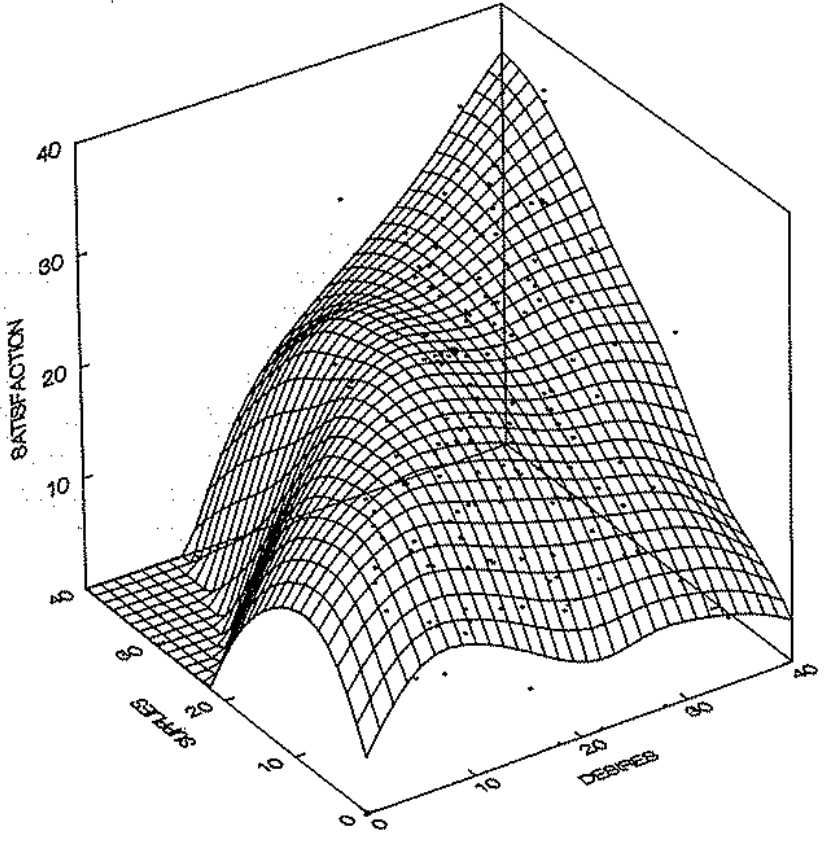
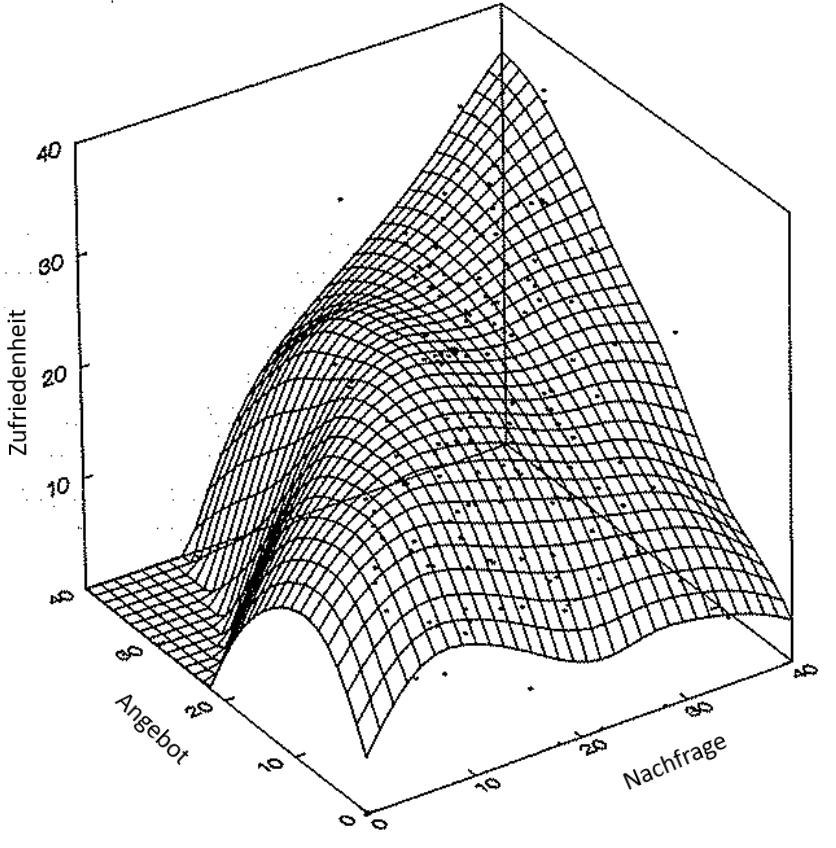
Kapitel 2 finalisiert

Changed region(s): [[0.6842, 0.8585, 0.8708, 0.9505], [0.1244, 0.8278, 0.2488, 0.8892], [0.0, 0.3679, 0.0311, 0.5519]]

diff --git a/chapters/personEnvironmentFit.tex b/chapters/personEnvironmentFit.tex
@@ -68,28 +68,17 @@ Wie in Abbildung \ref{fig:personEnvironmentFit:subjektivObjektiv:abb1} dargestel
 
 \begin{figure}[h]
 	\centering
-	\includegraphics[width=1\textwidth]{gfx/subjektivObjektivPEFit.jpg}
+	\includegraphics[width=0.9\textwidth]{gfx/subjektivObjektivPEFit.jpg}
 	\caption[Objektiver und subjektiver \acs{PEFit}]{Objektiver und subjektiver \acs{PEFit}\\
 		(Eigene Darstellung in Anlehnung an \cite[S. 22]{edwards:2008})}
 	\label{fig:personEnvironmentFit:subjektivObjektiv:abb1}
 \end{figure}
 
-% 4 Subjekte farbig markieren
-Die Forscher betonten die Wichtigkeit, die vier in Abbildung \ref{fig:personEnvironmentFit:subjektivObjektiv:abb1} dargestellten Subjekte anhand vergleichbarer Dimensionen zu messen. Dies betrachteten sie als wichtige Grundlage, um über Ähnlichkeitsberechnungen aussagekräftige Werte für den objektiven und subjektiven \ac{PEFit} zu bestimmen \cite[S. 2f.]{copingAndAdaption:1974}.
+Die Forscher bemerkten, dass insbesondere der in Abbildung \ref{fig:personEnvironmentFit:subjektivObjektiv:abb1} dargestellte subjektive \ac{PEFit} bedeutsam für die Entstehung psychischer Belastungen ist. Die objektive Kongruenz spielt dagegen eine untergeordnete Rolle \cite[S. 4]{copingAndAdaption:1974}. Auch Publikationen anderer Forscher bestätigten diese Einschätzung \cite[S. 3]{carless:2005}. Dementsprechend wird die subjektive Wahrnehmung des \acp{PEFit} in der Literatur stärker fokussiert \cite[S. 8]{caplan:1987}\cite[S. 9]{caplan:1993}\cite[S. 16]{choi:2004}.
 
-% Eig french und Kahn 1962 S. 10ff.
-Aus der Publikation von \textcite[S. 10ff.]{french:1962} schlossen \textcite[S. 15]{copingAndAdaption:1974}, dass Individuen anstreben, unerfüllte Motive zu verhindern. Demnach existieren zwei Strategien. Ändert eine Person ihre objektive Umgebung oder ihr objektiv ermitteltes Selbst zur Verbesserung des objektiven \acp{PEFit}, sprachen \textcite[S. 15f.]{copingAndAdaption:1974} von Bewältigung (Coping). Ändert das Individuum ihre subjektive Wahrnehmung von Umgebung oder sich selbst zur Optimierung des subjektiven \acp{PEFit}, bezeichneten sie die Strategie als Verteidigung (Defense).
+In einer auf den Erkenntnissen von \textcite[S. 1ff.]{copingAndAdaption:1974} aufbauenden Arbeit kam \textcite[S. 5ff.]{harrison:1978} sogar zu der Einschätzung, dass innerhalb des subjektiven \acp{PEFit} alleine die Bedürfnisse-Angebote Kongruenz Auswirkungen auf die mentale Gesundheit des Mitarbeiters hat. Ein Ungleichgewicht im Anforderungen-Fähigkeiten Fit führt dem Autor zu Folge dagegen nur dann zu psychischer Belastung, wenn diese der Erfüllung des Bedürfnisse-Angebote Fits schadet. Beispielsweise könnte sich ein Mitarbeiter von der Erfüllung einer Aufgabe zusätzliches Gehalt versprechen. Reichen dessen Fähigkeiten jedoch nicht aus, die Anforderungen zu erfüllen, könnte dessen Stressgefühl zunehmen. Der Grund für dessen psychische Belastung ist laut \textcite[S. 13]{harrison:1978} jedoch nicht das unterschiedliche Niveau von Fähigkeiten und Anforderungen als solches. Die Ursache ist dem Wissenschaftler zu Folge die nicht erreichte Gehaltsauszahlung, welche sich der Mitarbeiter wünschte. Somit löste das Ungleichgewicht im Anforderungen-Fähigkeiten Fit nur Stress aus, da die daraus resultierende Nichterfüllung der Aufgabe den Bedürfnisse-Angebote Fit ins Ungleichgewicht brachte.
 
-Beispielsweise könnte sich ein Bachelor-Absolvent für eine Stelle interessieren, welche als Anforderung einen Master-Abschluss voraussetzt. Diese Unterschiede im objektiven \ac{PEFit} könnte die Person bewältigen, indem sie entweder den fehlenden Abschluss erwirbt oder das Unternehmen überzeugt, die Stellenanforderungen abzuändern. Dagegen könnte der Betrieb auch einen zukünftigen Mitarbeiter suchen, welcher über ein bestimmtes Kenntnisniveau in einer Programmiersprache verfügt. Schätzt ein potentieller Bewerber seine Fähigkeiten zunächst schlechter ein als gefordert, gerät der subjektive \ac{PEFit} ins Ungleichgewicht. Die Person kann sich hierbei verteidigen, indem sie die Wahrnehmung ihrer Kenntnisse nachträglich besser bewertet oder die Anforderungen der Stellenausschreibung abwertet.
-
-\textcite[S. 4]{copingAndAdaption:1974} bemerkten außerdem, dass insbesondere der subjektive \ac{PEFit} bedeutsam für die Entstehung psychischer Belastungen ist. Auch Publikationen anderer Forscher bestätigten diese Einschätzung \cite[S. 3]{carless:2005}. Dementsprechend wurde die subjektive Wahrnehmung des \acp{PEFit} in der Literatur stärker fokussiert \cite[S. 8]{caplan:1987}\cite[S. 9]{caplan:1993}\cite[S. 16]{choi:2004}.
-
-In einer auf den Erkenntnissen von \textcite[S. 1ff.]{copingAndAdaption:1974} aufbauenden Arbeit kam \textcite[S. 5ff.]{harrison:1978} sogar zu der Einschätzung, dass innerhalb des subjektiven \acp{PEFit} alleine die Bedürfnisse-Angebote Kongruenz Auswirkungen auf die mentale Gesundheit des Mitarbeiters hat. Ein Ungleichgewicht im Anforderungen-Fähigkeiten Fit führt dem Autor zu Folge dagegen nur dann zu psychischer Belastung, wenn diese der Erfüllung des Bedürfnisse-Angebote Fits schadet. Beispielsweise könnte sich ein Mitarbeiter von der Erfüllung einer Aufgabe zusätzliches Gehalt versprechen. Reichen dessen Fähigkeiten jedoch nicht aus, die Anforderungen zu erfüllen, könnte dessen Stressgefühl zunehmen. Der Grund für dessen psychische Belastung ist laut \textcite[S. 13]{harrison:1978} jedoch nicht das unterschiedliche Niveau von Fähigkeiten und Anforderungen als solches. Die Ursache für den Stress ist dem Autor zu Folge die nicht erreichte Gehaltsauszahlung, welche sich der Mitarbeiter wünschte. Somit löste das Ungleichgewicht im Anforderungen-Fähigkeiten Fit nur Stress aus, da die daraus resultierende Nichterfüllung der Aufgabe den Bedürfnisse-Angebote Fit ins Ungleichgewicht brachte.
-% eine leistungsabhängige Gehalts-Auszahlung. Möchte ein Mitarbeiter die Bezahlung erhalten (Bedürfnis), welche vom Arbeitgeber in Aussicht gestellt wird (Angebot), hat aber nicht ausreichende Fähigkeiten, um die dafür notwendigen Anforderungen zu erfüllen, führt dies zu Unzufriedenheit.
-
-Auch \textcite[S. 1ff.]{lazarus:1978} stellten fest, dass zu hohe Anforderungen nur dann Stress bei einem Individuum auslösen, wenn dieses durch die Nichterfüllung negative Konsequenzen befürchtete. Dabei kann es sich den Autoren zu Folge entweder um schädliche Folgen für die Gesundheit oder die Verletzung innerer Werte und Ziele handeln.
-
-Ungleichgewichte im \ac{PEFit} werden häufig auch als Misfits bezeichnet \cite[S. 2]{edwards:2004}, \cite[S. 4]{kristof:1996}. Mögliche Auswirkungen von P-E Misfits wurden in der Literatur in verschiedenen Arbeiten diskutiert \cite{mechanismsOfJobStressAndStrain:1982}\cite{caplan:1987}. \textcite{harrison:1978}\cite{edwards:1993}.
+Ungleichgewichte im \ac{PEFit} werden häufig auch als Misfits bezeichnet \cite[S. 2]{edwards:2004}, \cite[S. 4]{kristof:1996}. Mögliche Auswirkungen von P-E Misfits wurden in der Literatur in verschiedenen Arbeiten diskutiert \cite{mechanismsOfJobStressAndStrain:1982}\cite{caplan:1987}. %\cite{harrison:1978}\cite{edwards:1993}.
 
 \section{Auswirkungen von P-E Misfits}
 \label{ch:personEnvironmentFit:auswirkungenErhoehterAngebote}
@@ -98,40 +87,38 @@ Ungleichgewichte im \ac{PEFit} werden häufig auch als Misfits bezeichnet \cite[
 % das hier ist eigentlich von Caplan 1980 oder french rodergs and cobb (laut Mechanisms of Job Stress and Strain)
 \textcite{mechanismsOfJobStressAndStrain:1982} stellten fest, dass ein Bedürfnisse-Angebote Misfit in unterschiedlichen Konsequenzen resultieren kann. Diese sind in Abbildung \ref{fig:personEnvironmentFit:auswirkungenErhoehterAngebote:abb1} dargestellt.
 
-% Bild auch in Coping und Adaption? Nein.
 \begin{figure}[h]
 	\centering
 	\includegraphics[width=0.75\textwidth]{gfx/ueberschuss_supply_motive.png}
-	\caption{Auswirkungen eines Bedürfnisse-Angebote Misfits\\(Eigene Darstellung in Anlehnung an \cite[S. 23]{edwards:2008})}
+	\caption[Auswirkungen eines Bedürfnisse-Angebote Misfits]{Auswirkungen eines Bedürfnisse-Angebote Misfits\\(Eigene Darstellung in Anlehnung an \cite[S. 23]{edwards:2008})}
 	\label{fig:personEnvironmentFit:auswirkungenErhoehterAngebote:abb1}
 \end{figure}
 
-An der durchgezogenen Linie auf der linken Hälfte von Abbildung \ref{fig:personEnvironmentFit:auswirkungenErhoehterAngebote:abb1} ist zu erkennen, dass je weniger die Bedürfnisse einer Person erfüllt werden, die mentale Belastung (Strain) des Individuums stärker zunimmt \cite[S. 30]{mechanismsOfJobStressAndStrain:1982}. Der Verlauf dieser Kurve kann über folgende algebraische Differenzberechnung bestimmt werden \cite[S. 2]{edwards:1993}:
+An der durchgezogenen Linie auf der linken Hälfte von Abbildung \ref{fig:personEnvironmentFit:auswirkungenErhoehterAngebote:abb1} ist zu erkennen, dass je weniger die Bedürfnisse einer Person erfüllt werden, die mentale Belastung des Individuums stärker zunimmt \cite[S. 30]{mechanismsOfJobStressAndStrain:1982}. Der Verlauf dieser Kurve kann über folgende algebraische Differenzberechnung bestimmt werden \cite[S. 2]{edwards:1993}:
 \begin{equation}
 	B = P - E
 	\label{fig:personEnvironmentFit:auswirkungenErhoehterAngebote:formel1}
-\end{equation}
-In Gleichung \ref{fig:personEnvironmentFit:auswirkungenErhoehterAngebote:formel1} steht $B$ für die mentale Belastung des Mitarbeiters. $P$ stellt die von einer Person gewünschte Menge eines bestimmten Wertes dar. Die vom Mitarbeiter wahrgenommene erhaltene Menge des entsprechenden Wertes seitens der Umgebung wird über Parameter $E$ ausgedrückt \cite[S. 2]{edwards:1993}.
-
-% Hier noch eine zusätzliche Quelle?
-Übersteigen die Angebote der Umgebung die Bedürfnisse der Person, mündet dies in einer der drei gepunkteten Linien A, B oder C \cite[S. 29ff.]{mechanismsOfJobStressAndStrain:1982}. Kurve A zeigt einen monotonen Verlauf der mentalen Belastung. Dieser entsteht, wenn eine Person die Übererfüllung eines Bedürfnisses entweder für einen späteren Zeitpunkt aufsparen oder in die Befriedigung verwandter Motive investieren kann. Dieser Sachverhalt ist beispielsweise erfüllt, wenn einer Person mehr Gehalt zusteht, als diese für die Zahlung ihrer Lebenskosten benötigt. Das überschüssige Geld könnte diese entweder für die Zahlung von Lebenshaltungskosten in den Folgemonaten aufsparen oder zusätzlich ihr mögliches Bedürfnis nach Luxusgütern befriedigen \cite[S. 30]{mechanismsOfJobStressAndStrain:1982}. Für die Berechnung von Kurve A kann ebenfalls Gleichung \ref{fig:personEnvironmentFit:auswirkungenErhoehterAngebote:formel1} verwendet werden \cite[S. 2]{edwards:1993}.
-
-Linie B hat den Verlauf einer quadratischen Funktion und tritt ein, wenn die Übererfüllung eines Bedürfnisses entweder die Befriedigung dieses oder eines verwandten Motivs hemmt \cite[S. 5]{caplan:1987}. \textcite[S. 12]{harrison:1978} nannte hierfür das Bedürfnis einer Person nach sozialem Austausch als Beispiel, welches bei Übererfüllung das Verlangen nach Privatsphäre verletzt. Der Verlauf von Kurve B kann über die in Gleichung \ref{fig:personEnvironmentFit:auswirkungenErhoehterAngebote:formel2} dargestellte absolute Differenz bestimmt werden \cite[S. 2]{edwards:1993}.
-\begin{equation}
-	B = |P - E|
-	\label{fig:personEnvironmentFit:auswirkungenErhoehterAngebote:formel2}
 \end{equation}
 Alternativ bietet sich die Verwendung der quadrierten Differenz aus Gleichung \ref{fig:personEnvironmentFit:auswirkungenErhoehterAngebote:formel3} an \cite[S. 2]{edwards:1993}.
 \begin{equation}
 	B = (P - E)^2
 	\label{fig:personEnvironmentFit:auswirkungenErhoehterAngebote:formel3}
 \end{equation}
+In den Gleichungen \ref{fig:personEnvironmentFit:auswirkungenErhoehterAngebote:formel1} und \ref{fig:personEnvironmentFit:auswirkungenErhoehterAngebote:formel3} steht $B$ für die mentale Belastung des Mitarbeiters. $P$ stellt die von einer Person gewünschte Menge eines bestimmten Wertes dar. Die vom Mitarbeiter wahrgenommene erhaltene Menge des entsprechenden Wertes seitens der Umgebung wird über Parameter $E$ ausgedrückt \cite[S. 2]{edwards:1993}.
+
+Übersteigen die Angebote der Umgebung die Bedürfnisse der Person, mündet dies in einer der drei gepunkteten Linien A, B oder C \cite[S. 29ff.]{mechanismsOfJobStressAndStrain:1982}. Kurve A zeigt einen monotonen Verlauf der mentalen Belastung. Dieser entsteht, wenn eine Person die Übererfüllung eines Bedürfnisses entweder für einen späteren Zeitpunkt aufsparen oder in die Befriedigung verwandter Motive investieren kann. Dieser Sachverhalt ist beispielsweise erfüllt, wenn einer Person mehr Gehalt zusteht, als diese für die Zahlung ihrer Lebenskosten benötigt. Das überschüssige Geld könnte diese entweder für die Zahlung von Lebenshaltungskosten in den Folgemonaten aufsparen oder zusätzlich ihr mögliches Bedürfnis nach Luxusgütern befriedigen \cite[S. 30]{mechanismsOfJobStressAndStrain:1982}. Für die Berechnung von Kurve A kann ebenfalls Gleichung \ref{fig:personEnvironmentFit:auswirkungenErhoehterAngebote:formel1} verwendet werden \cite[S. 2]{edwards:1993}.
+
+Linie B hat den Verlauf einer quadratischen Funktion und tritt ein, wenn die Übererfüllung eines Bedürfnisses entweder die Befriedigung dieses oder eines verwandten Motivs hemmt \cite[S. 5]{caplan:1987}. \textcite[S. 12]{harrison:1978} nannte hierfür das Bedürfnis einer Person nach sozialem Austausch als Beispiel, welches bei Übererfüllung das Verlangen nach Privatsphäre verletzt. Der Verlauf von Kurve B kann über Gleichung \ref{fig:personEnvironmentFit:auswirkungenErhoehterAngebote:formel3} oder die in Gleichung \ref{fig:personEnvironmentFit:auswirkungenErhoehterAngebote:formel2} dargestellte absolute Differenzberechnung bestimmt werden \cite[S. 2]{edwards:1993}.
+\begin{equation}
+	B = |P - E|
+	\label{fig:personEnvironmentFit:auswirkungenErhoehterAngebote:formel2}
+\end{equation}
 Kurve C stellt eine asymptotische Beziehung zur mentalen Belastung dar. Sie tritt ein, wenn weder die Bedingungen von Kurve A noch von Linie B zutreffen. Eine Übererfüllung des Bedürfnisses hat folglich weder positive noch negative Auswirkungen auf die Person \cite[S. 30]{mechanismsOfJobStressAndStrain:1982}. Ein Beispiel für eine solche Beziehung ist ein Überangebot an Parkplätzen beim Arbeitgeber. Da der Mitarbeiter nur ein Fahrzeug besitzt, kann dieser von zusätzlichen Angeboten keinen Gebrauch machen und diese auch nicht für einen späteren Zeitpunkt aufsparen. Die zusätzlichen Parkplätze schaden auch keinem anderen Bedürfnis des Mitarbeiters. Somit entstehen weder positive noch negative Auswirkungen auf dessen Wohlbefinden. Zur Bestimmung von Kurve C wird die Belastung gleich dem Wert null gesetzt. Dieses Vorgehen ist in Gleichung \ref{fig:personEnvironmentFit:auswirkungenErhoehterAngebote:formel4} dargestellt \cite[S. 2]{edwards:1993}.
 \begin{equation}
 	B = 0
 	\label{fig:personEnvironmentFit:auswirkungenErhoehterAngebote:formel4}
 \end{equation}
-Verschiedene Autoren gehen davon aus, dass die Beziehungen aus Abbildung \ref{fig:personEnvironmentFit:auswirkungenErhoehterAngebote:abb1} auch für den Anforderungen-Fähigkeiten Fit zu erwarten sind. Wie in Kapitel \ref{ch:personEnvironmentFit:subjektivObjektiv} beschrieben gilt dies nur, wenn das Erfüllen der Anforderungen Auswirkungen auf die inneren Werte des Mitarbeiters hat \cite[S. 12f.]{harrison:1978}. Wie an der durchgezogenen Linie auf der linken Seite von Abbildung \ref{fig:personEnvironmentFit:auswirkungenErhoehterAngebote:abb1} zu erkennen, entsteht in jedem Fall psychische Belastung, wenn die Anforderungen der Umgebung die Kenntnisse des Mitarbeiters übersteigen \cite[S. 5]{schuler:1980}. Sind dagegen die Fähigkeiten des Angestellten stärker ausgeprägt als erforderlich, resultiert eine der Kurven A bis C. Linie A tritt ein, wenn der Mitarbeiter seine gewonnenen Freiräume nutzen kann, um verwandte Bedürfnisse zu erfüllen. Schaden die zu niedrigen Anforderungen einem Bedürfnis des Mitarbeiters, entsteht Kurve B. Haben die zu hohen Fähigkeiten des Angestellten weder positive noch negative Auswirkungen auf dessen Wohlbefinden, resultiert Linie C \cite[S. 22f.]{edwards:2008}.
+Verschiedene Autoren gehen davon aus, dass die Beziehungen aus Abbildung \ref{fig:personEnvironmentFit:auswirkungenErhoehterAngebote:abb1} auch für den Anforderungen-Fähigkeiten Fit zu erwarten sind. Wie in Kapitel \ref{ch:personEnvironmentFit:subjektivObjektiv} beschrieben, gilt dies nur, wenn das Erfüllen der Anforderungen Auswirkungen auf die inneren Werte des Mitarbeiters hat \cite[S. 12f.]{harrison:1978}. Wie an der durchgezogenen Linie auf der linken Seite von Abbildung \ref{fig:personEnvironmentFit:auswirkungenErhoehterAngebote:abb1} zu erkennen, entsteht in jedem Fall psychische Belastung, wenn die Anforderungen der Umgebung die Kenntnisse des Mitarbeiters übersteigen \cite[S. 5]{schuler:1980}. Sind dagegen die Fähigkeiten des Angestellten stärker ausgeprägt als erforderlich, resultiert eine der Kurven A bis C. Linie A tritt ein, wenn der Mitarbeiter seine gewonnenen Freiräume nutzen kann, um verwandte Bedürfnisse zu erfüllen. Schaden die zu niedrigen Anforderungen einem Bedürfnis des Mitarbeiters, entsteht Kurve B. Haben die zu hohen Fähigkeiten des Angestellten weder positive noch negative Auswirkungen auf dessen Wohlbefinden, resultiert Linie C \cite[S. 22f.]{edwards:2008}.
 
 Unterschiedliche Publikationen stellten fest, dass der Verlauf der Kurven nicht alleine von den Auswirkungen der Misfits auf die Motive des Mitarbeiters abhängig ist. Zusätzlich muss beachtet werden, als wie wichtig der Angestellte die betroffenen Bedürfnisse bewertet \cite[S. 9f.]{edwards:1996}. 
 
@@ -159,29 +146,29 @@ Derartige Multiplikationen mit einem Differenzwert haben zur Folge, dass die in 
 	\label{fig:personEnvironmentFit:wichtigkeiten:abb1}
 \end{figure}
 
-Im linken Teil (a) von Abbildung \ref{fig:personEnvironmentFit:wichtigkeiten:abb1} ist eine monotone Funktion basierend auf einer algebraischen Differenzberechnung dargestellt. Die rechte Seite der Grafik (b) zeigt den Verlauf einer Berechnung mit absoluter Differenz. In beiden Darstellungen ist zu erkennen, dass die Kurven bei geringer Wichtigkeit ausschließlich im mittleren Bereich von moderat niedrig bis moderat hoch verlaufen. Ist einem Individuum das jeweilige Bedürfnis dagegen sehr wichtig, füllt die Kurve den gesamten verfügbaren Bereich von niedrig bis hoch. Die Ausnutzung des größeren Gebiets führt zur Stauchung der Funktionsgraphen und damit zu einem stärkeren Ansteigen bzw. Absinken der Zufriedenheit des Individuums. 
+Im linken Teil (a) von Abbildung \ref{fig:personEnvironmentFit:wichtigkeiten:abb1} ist eine monotone Funktion basierend auf einer algebraischen Differenzberechnung dargestellt. Die rechte Seite der Grafik (b) zeigt den Verlauf einer Berechnung mit absoluter Differenz. In beiden Darstellungen ist zu erkennen, dass die Kurven bei geringer Wichtigkeit ausschließlich im mittleren Bereich von moderat niedrig bis moderat hoch verlaufen. Ist einem Individuum das jeweilige Bedürfnis dagegen wichtig, füllt die Kurve den gesamten verfügbaren Bereich von niedrig bis hoch. Dieses Vorgehen führt zur Stauchung der Funktionsgraphen und damit zu einem stärkeren Ansteigen bzw. Absinken der Zufriedenheit des Individuums. 
 
-\textcite[S. 51ff.]{edwards:1991}\cite[S. 9ff.]{edwards:1990}\cite[S. 2ff.]{edwards:1993}\cite[S. 2ff.]{edwards:1993b} kritisierte derartige Berechnungen in mehreren seiner Arbeiten. Dabei diskutierte er insbesondere die Multiplikation mit dem Differenzwert. Er war der Auffassung, dass die aus der Differenzberechnung resultierenden zweidimensionalen Grafiken die Komplexität eines \acp{PEFit} nicht vollständig abbilden. Deshalb empfahl er, die Berechnungen mittels Regressionsgleichungen durchzuführen.
+\textcite[S. 51ff.]{edwards:1991}\cite[S. 9ff.]{edwards:1990}\cite[S. 2ff.]{edwards:1993}\cite[S. 2ff.]{edwards:1993b} kritisierte derartige Berechnungen in mehreren seiner Arbeiten. Dabei diskutierte er insbesondere die Multiplikation mit dem Differenzwert. Er ist der Auffassung, dass die aus der Differenzberechnung resultierenden zweidimensionalen Grafiken die Komplexität eines \acp{PEFit} nicht vollständig abbilden. Deshalb empfahl er, die Berechnungen mittels Regressionsgleichungen durchzuführen.
 
 \section{Anwendung von Regressionsgleichungen}
 \label{ch:personEnvironmentFit:regressionsgleichungen}
 In seinen Publikationen empfahl \textcite[S. 51ff.]{edwards:1991}\cite[S. 9ff.]{edwards:1990}\cite[S. 2ff.]{edwards:1993}\cite[S. 2ff.]{edwards:1993b}, Multiplikationen separat für jeden Wert von Person und Umgebung durchzuführen. Formel \ref{fig:personEnvironmentFit:wichtigkeiten:formel1} könnte hierfür zu folgender Regressionsgleichung \ref{fig:personEnvironmentFit:wichtigkeiten:formel2} umgestellt werden \cite[S. 9f.]{edwards:1990}, \cite[S. 2f.]{edwards:1993b}.
 \begin{equation}
-	Y = b_1 * P - b_2 * E
+	Y = b_1 * P - b_2 * E + a
 	\label{fig:personEnvironmentFit:wichtigkeiten:formel2}
 \end{equation}
 Die Koeffizienten $b_1$ und $b_2$ stehen in Gleichung \ref{fig:personEnvironmentFit:wichtigkeiten:formel2} für die separaten Wichtigkeiten von gewünschter ($P$) und wahrgenommener Menge ($E$) eines Wertes. Durch diese Art der Berechnung entstehen aus zweidimensionalen Grafiken dreidimensionale Modelle \cite[S. 2]{edwards:1993}. Solche Darstellungen sind dem Wissenschaftler zu Folge besser geeignet, Ungleichmäßigkeiten in den Oberflächen abzubilden \cite[S. 51ff.]{edwards:1991}. So stellte \textcite[S. 53ff.]{edwards:1991} beispielsweise bei der Datenanalyse einer Studie mit mehreren hundert Teilnehmern die in Abbildung \ref{fig:personEnvironmentFit:wichtigkeiten:abb2} dargestellte dreidimensionale Beziehung von \ac{PEFit} und Zufriedenheit fest.
 
 \begin{figure}[h]
 	\centering
-	\includegraphics[width=0.6\textwidth]{gfx/drei_d_modell.png}
-	\caption{Dreidimensionale Beziehung von P-E Fit und Zufriedenheit \cite[S. 57]{edwards:1991}}
+	\includegraphics[width=0.7\textwidth]{gfx/drei_d_modell.png}
+	\caption[Dreidimensionale Beziehung von P-E Fit und Zufriedenheit]{Dreidimensionale Beziehung von P-E Fit und Zufriedenheit\\
+	(Eigene Darstellung in Anlehnung an \cite[S. 57]{edwards:1991})}
 	\label{fig:personEnvironmentFit:wichtigkeiten:abb2}
 \end{figure}
 
-Um die stärkere Aussagekraft der Regressionsgleichung zu untermauern, werteten \textcite[S. 18ff.]{edwards:1993b}  in ihrer Publikation einen umfangreichen Datensatz von \textcite[S. 9ff.]{mechanismsOfJobStressAndStrain:1982} erneut aus. Dieser wurde ursprünglich durch Multiplikationen mit Differenzwerten aus Person und Umgebung analysiert. \textcite[S. 18ff.]{edwards:1993b} gelang es, durch Anwendung von Regressionsgleichungen im Vergleich zur erstmaligen Untersuchung einen wesentlich höheren Anteil an Varianz zu erklären \cite[S. 8]{su:2015}.
-
-Um einen solchen Prozess zur Bestimmung des \acp{PEFit} zu Automatisieren, sollten ausreichende Datenmengen der Mitarbeiter zur Berechnung bereitgestellt werden. Beispielsweise beobachteten \textcite[S. 3]{mitre:2014} bei der Analyse von Fähigkeiten in deren erhobenen Daten, dass ein Großteil der Kenntnisse von nur sehr wenigen Mitarbeitern bewertet wurden. In solchen Fällen können Algorithmen eingesetzt werden, welche die unbewerteten Fähigkeiten der Angestellten vorhersagen. Dadurch können die fehlenden Daten ebenfalls in die Berechnung einbezogen werden. Solche Algorithmen kommen unter anderem bei der Implementierung von Empfehlungssystemen zum Einsatz.
+Um die stärkere Aussagekraft der Regressionsgleichungen zu untermauern, werteten \textcite[S. 18ff.]{edwards:1993b} einen umfangreichen Datensatz von \textcite[S. 9ff.]{mechanismsOfJobStressAndStrain:1982} erneut aus. Dieser wurde ursprünglich durch Multiplikationen mit den Differenzwerten aus Person und Umgebung analysiert. \textcite[S. 18ff.]{edwards:1993b} gelang es, durch Anwendung von Regressionsgleichungen im Vergleich zur erstmaligen Untersuchung einen wesentlich höheren Anteil an Varianz zu erklären \cite[S. 8]{su:2015}.
+%Um einen solchen Prozess zur Bestimmung des \acp{PEFit} zu Automatisieren, sollten ausreichende Datenmengen der Mitarbeiter zur Berechnung bereitgestellt werden. Beispielsweise beobachteten \textcite[S. 3]{mitre:2014} bei der Analyse von Fähigkeiten in deren erhobenen Daten, dass ein Großteil der Kenntnisse von nur sehr wenigen Mitarbeitern bewertet wurden. In solchen Fällen können Algorithmen eingesetzt werden, welche die unbewerteten Fähigkeiten der Angestellten vorhersagen. Dadurch können die fehlenden Daten ebenfalls in die Berechnung einbezogen werden. Solche Algorithmen kommen unter anderem bei der Implementierung von Empfehlungssystemen zum Einsatz.
 %Zu den Analysen von \textcite[S. 18ff.]{edwards:1993b} bzw. \textcite{mechanismsOfJobStressAndStrain:1982} muss betont werden, dass durch die Datenerhebung vorab Kennzahlen zu Person, Umgebung und Ergebnis festgestellt wurden. Die Forscher untersuchten anhand der Daten, über welche Fit-Berechnung am zuverlässigsten auf das Ergebnis geschlossen werden kann.\\
 %Neben Edwards stellte auch \textcite[S. 3]{schneider:2001}\cite[S. 2]{schneider:1978} Mängel an bestehenden Person-Environment Fit-Untersuchungen fest. Er betrachtete die Kongruenz von Person und Arbeitsplätzen. Bei der Literaturrecherche bemerkte er, dass bei der Fit-Bestimmung nur selten die vollständige P-E Kongruenz berechnet wird. Meist fokussieren Forscher seinen Beobachtungen zu Folge dabei häufig ausschließlich den Anforderungen-Fähigkeiten Fit. Dieses Phänomen lässt sich auch bei Publikationen zu IT-basierten Empfehlungssystemen dieser Domäne beobachten.
 %Um die stärkere Aussagekraft der Regressionsgleichung zu untermauern, werteten \textcite[S. 18ff.]{edwards:1993b}  in ihrer Publikation einen umfangreichen Datensatz von \textcite{mechanismsOfJobStressAndStrain:1982} erneut aus. Dieser wurde ursprünglich durch Multiplikationen mit Differenzwerten aus Person und Umgebung analysiert. \textcite[S. 18ff.]{edwards:1993b} gelang es, durch Anwendung von Regressionsgleichungen im Vergleich zur erstmaligen Untersuchung einen wesentlich höheren Anteil an Varianz zu erklären \cite[S. 8]{su:2015}.
